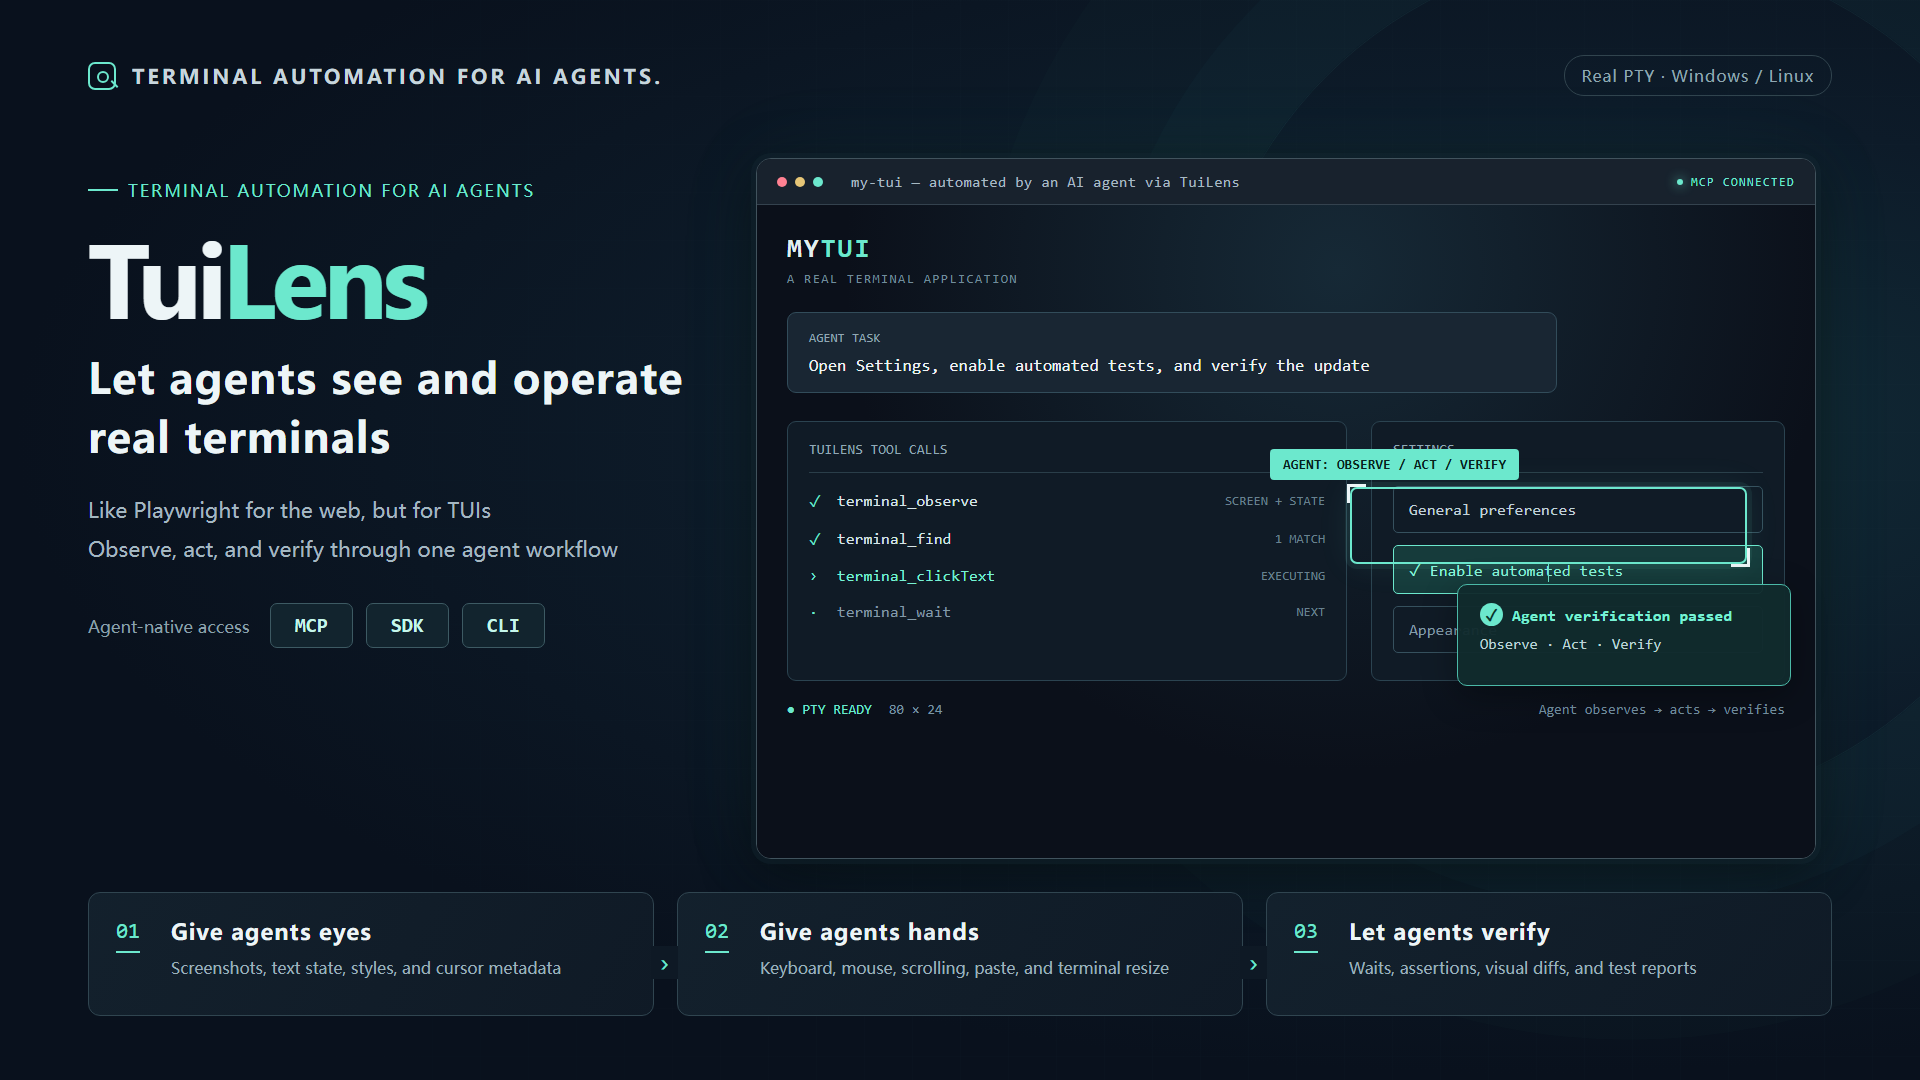
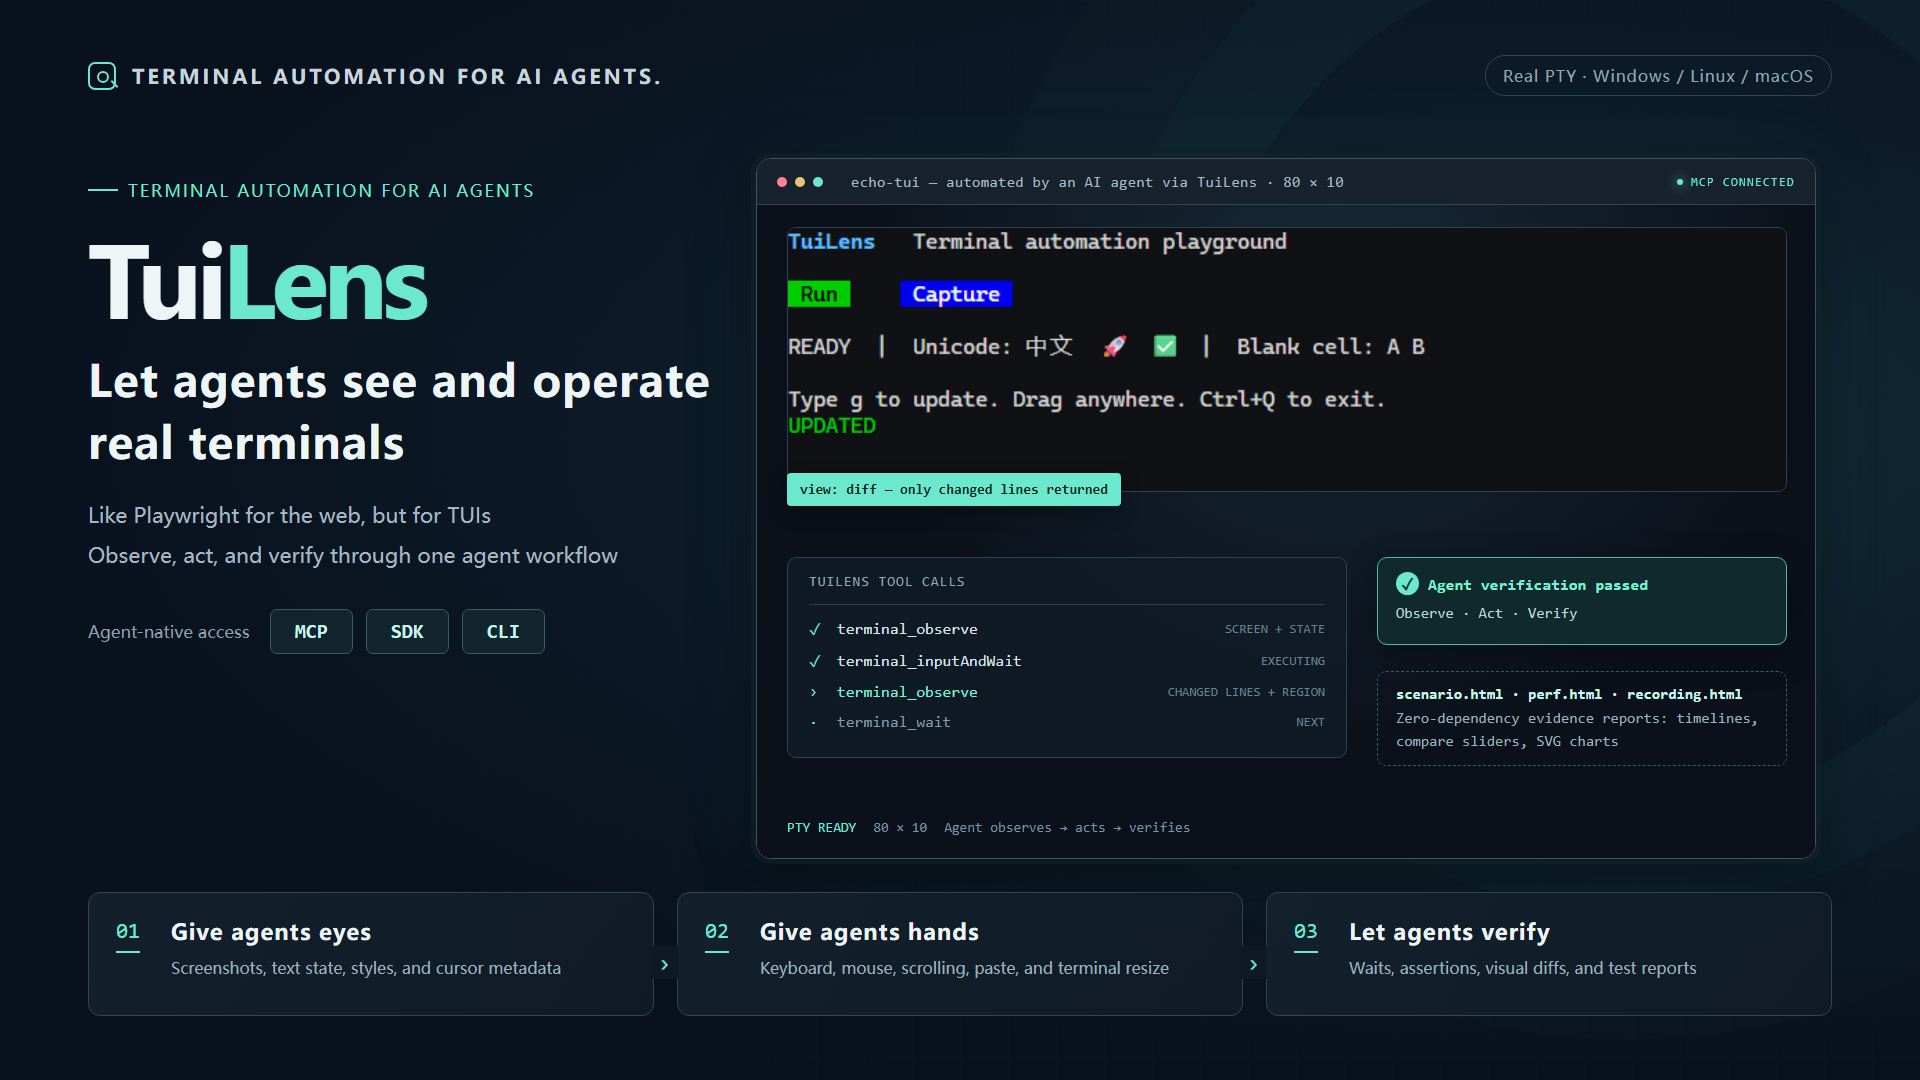
docs(readme): refresh bilingual assets for 0.6.0 (#33)
Regenerate the agent banners from the generic echo-tui sample, refresh the playground capture, and add a performance evidence report screenshot. Align the MCP tool list with the 15 registered tools and correct the Chinese engine-side probe description to reference TerminalCore.

diff --git a/README.md b/README.md
@@ -371,6 +371,8 @@ resize/exit metadata. The embedded `EvidenceManifest` registers every artifact e
 All text is escaped and embedded JSON is script-safe. Images are inlined only up to 8 MiB each and
 24 MiB total; larger images fall back to their path and size. See [evidence reports](docs/REPORTING.md).
 
+![TuiLens performance evidence report](docs/assets/evidence-report.png)
+
 ## Testing API
 
 The SDK exposes a playwright-style handle for test files:
@@ -416,8 +418,9 @@ server instructions read them automatically; add a client-level rule or skill wh
 agent still needs deterministic routing.
 
 Available tools: `terminal_launch`, `terminal_list`, `terminal_observe`, `terminal_find`,
-`terminal_clickText`, `terminal_input`, `terminal_inputAndWait`, `terminal_resize`, `terminal_wait`, `terminal_compare`,
-`terminal_replay`, `terminal_scenario`, `terminal_perf`, `terminal_metrics`, and `terminal_close`.
+`terminal_clickText`, `terminal_input`, `terminal_inputAndWait`, `terminal_resize`, `terminal_wait`,
+`terminal_metrics`, `terminal_close`, `terminal_compare`, `terminal_replay`, `terminal_scenario`,
+and `terminal_perf`.
 `terminal_observe`, `terminal_replay`, and screenshot-enabled `terminal_inputAndWait` return PNG image content as well as text metadata.
 Disconnecting releases sessions created by that MCP connection.
 Long-running wait, inputAndWait, replay, scenario and perf calls forward real server progress when the
